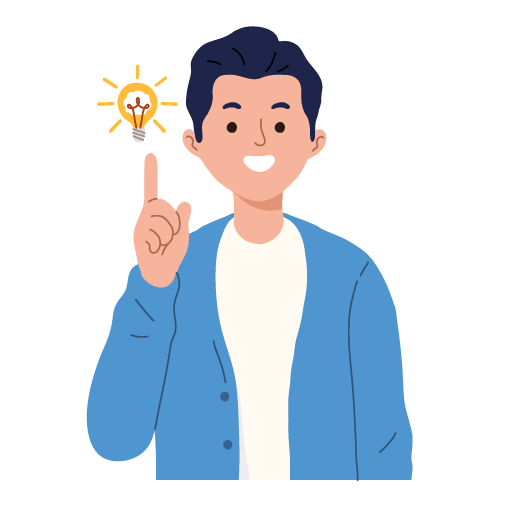
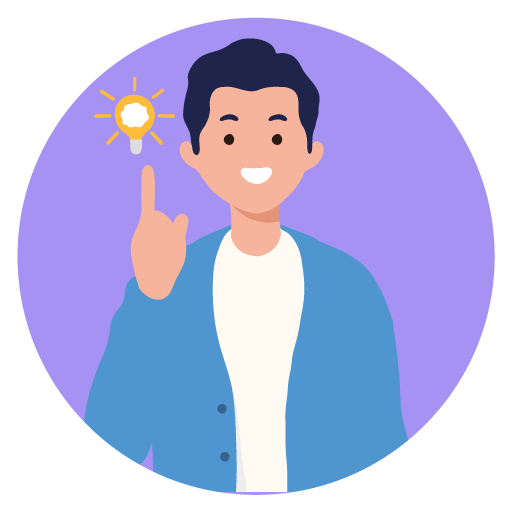
Header animated

diff --git a/src/components/Header/Header.jsx b/src/components/Header/Header.jsx
@@ -1,16 +1,28 @@
 import React from 'react';
 import '../Header/Header.css';
-import image from '../../images/think.png'
+import image from '../../images/young-hipster.jpg'
 
-const Header = () => {
+const Header = (props) => {
     return (
         <div className="head-container">
             <img 
                 src={image} 
                 alt="header image"
-                className="head-image"
+                className={
+                            `head-image ${
+                                props.searchKeyword
+                                    ?'head-image-contracted'
+                                    :'head-image-expanded'
+                            }`}
             />
-            <h1 className="head-text">Name it</h1>
+            <h1 
+                className={
+                    `head-text ${
+                        props.searchKeyword
+                            ?'head-text-contracted'
+                            :'head-text-expanded'
+                    }`}
+            >Name it</h1>
         </div>
     );
 };

diff --git a/src/components/App/App.jsx b/src/components/App/App.jsx
@@ -1,13 +1,22 @@
-import React from 'react';
+import React, { useState } from 'react';
 import '../App/App.css';
 import Header from '../Header/Header';
 import SearchBox from '../SearchBox/SearchBox';
 
 function App() {
+    const [searchKeyword, setSearchKeyword] = useState(false);
+    const handleInputChange = (inputText) => {
+        if(inputText){
+            setSearchKeyword(true);
+        }
+        else {
+            setSearchKeyword(false);
+        }
+    }
     return (
         <div>
-            <Header></Header>
-            <SearchBox></SearchBox>
+            <Header searchKeyword={searchKeyword}></Header>
+            <SearchBox handleInputChange={handleInputChange}></SearchBox>
         </div>
     )
 }

diff --git a/public/index.html b/public/index.html
@@ -24,7 +24,7 @@
       work correctly both with client-side routing and a non-root public URL.
       Learn how to configure a non-root public URL by running `npm run build`.
     -->
-    <title>React App</title>
+    <title>Guess The Name</title>
     <link rel="preconnect" href="https://fonts.gstatic.com">
     <link href="https://fonts.googleapis.com/css2?family=Lato:ital,wght@0,100;0,300;0,400;0,700;0,900;1,100;1,300;1,400;1,700;1,900&display=swap" rel="stylesheet">
     <link href="https://fonts.googleapis.com/css2?family=Hachi+Maru+Pop&display=swap" rel="stylesheet">

diff --git a/src/components/Header/Header.css b/src/components/Header/Header.css
@@ -6,10 +6,32 @@
 }
 
 .head-image{
-    width: 250px;
+    width: auto;
+}
+
+.head-image-expanded {
+    min-width: 230px;
+    max-width: 250px;
+    transition: max-width 1s min-width 1s;
+}
+
+.head-image-contracted {
+    min-width: 30px;
+    max-width: 50px;
+    transition: max-width 1s min-width 1s;
 }
 
 .head-text{
     font-family: 'Hachi Maru Pop', cursive;
     margin: 5px 0 15px 0;
+}
+
+.head-text-expanded {
+    font-size: 35px;
+    transition: font-size 1s;
+}
+
+.head-text-contracted {
+    font-size: 15px;
+    transition: font-size 1s;
 }

diff --git a/src/components/SearchBox/SearchBox.jsx b/src/components/SearchBox/SearchBox.jsx
@@ -1,10 +1,14 @@
 import React from 'react';
 import './SearchBox.css';
 
-const SearchBox = () => {
+const SearchBox = (props) => {
     return (
         <div className="search-container">
-            <input placeholder="Search keywords" className="search-input"/>
+            <input
+                onChange={(event) => props.handleInputChange(event.target.value)} 
+                placeholder="Search keywords" 
+                className="search-input"
+            />
         </div>
     );
 };
